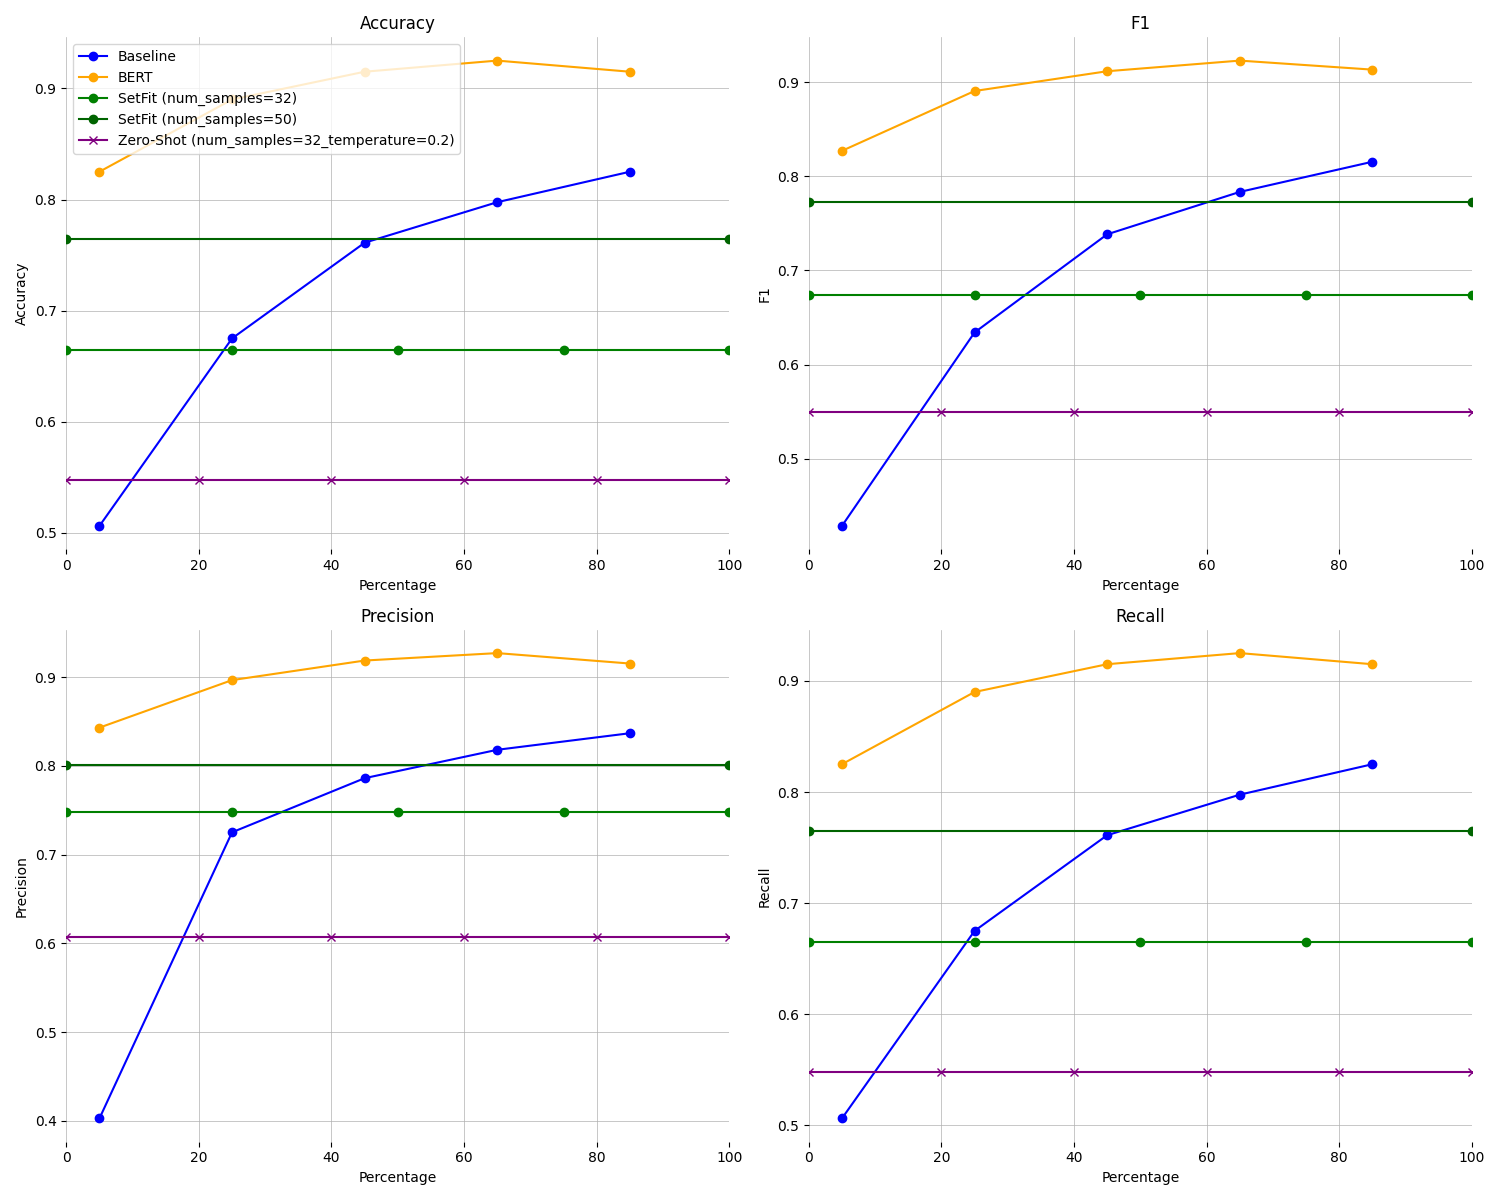
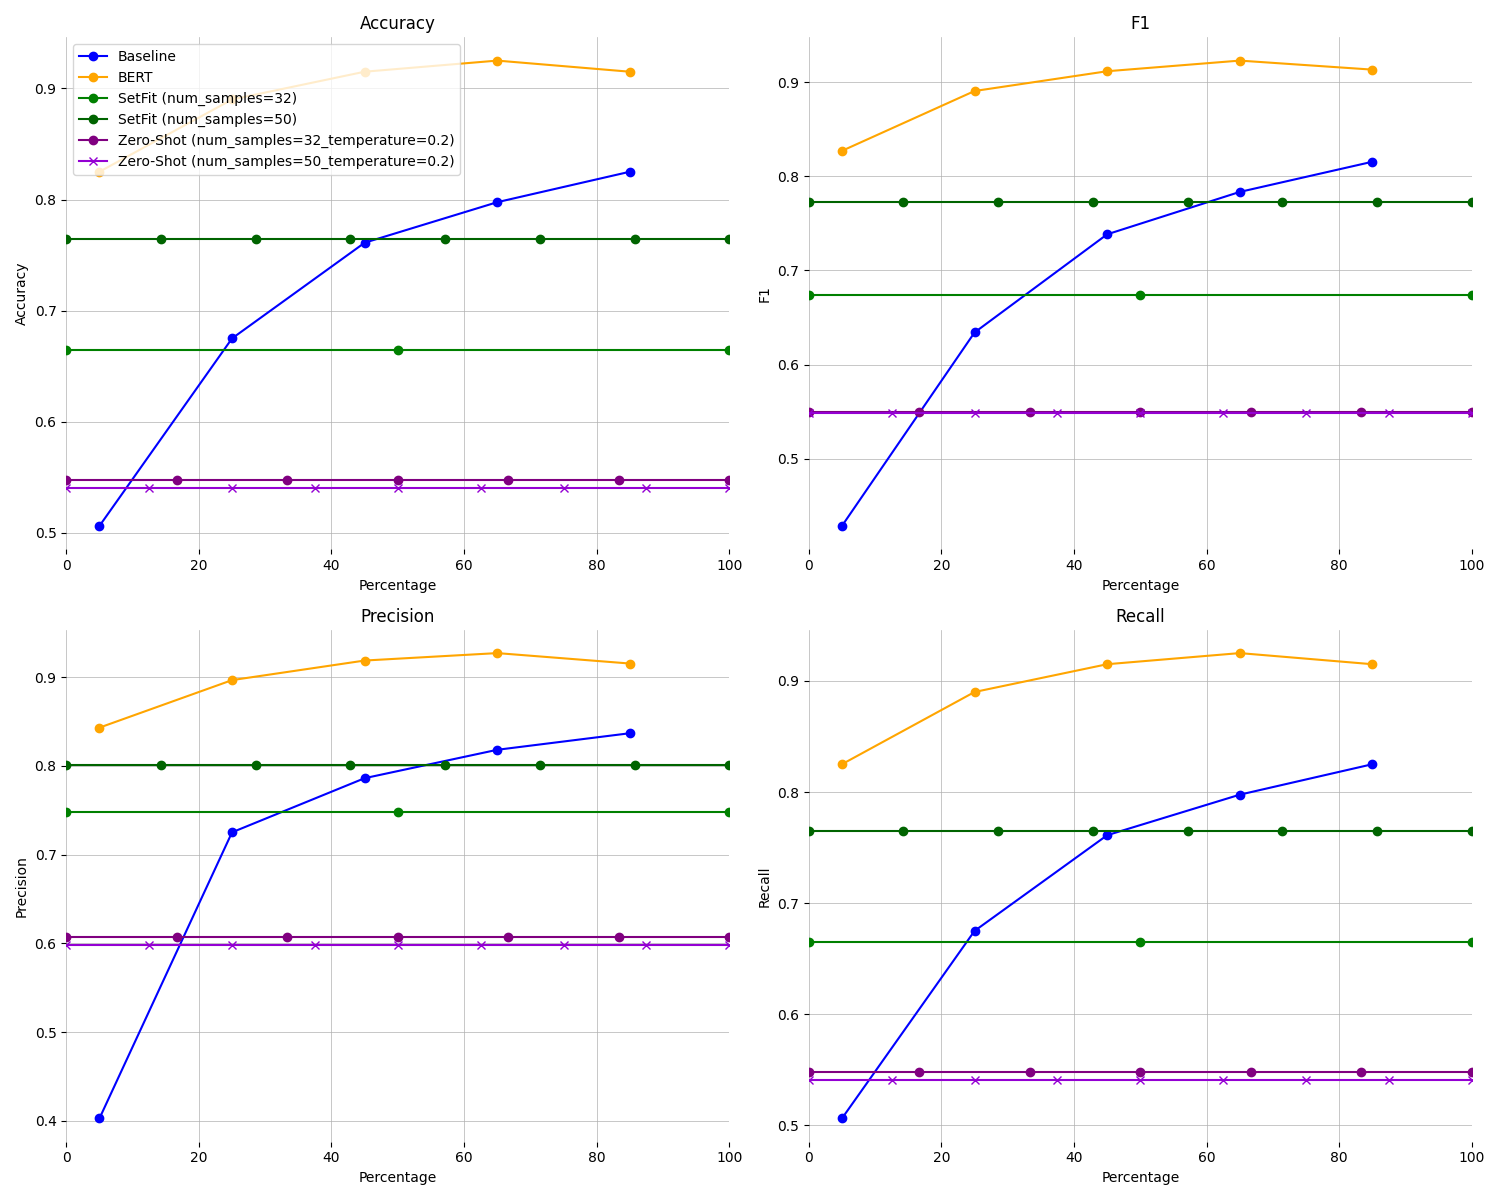
Finalising

diff --git a/homework/main.py b/homework/main.py
@@ -156,7 +156,7 @@ if __name__ == "__main__":
     fig_name = "metrics.png"
 
     baseline_results = tasks.baseline()
-    fig = Utils.plot_metrics_comparison_comparison(baseline_results, label = "Baseline", color='blue', legend=False)
+    fig = Utils.plot_metrics_comparison(baseline_results, label = "Baseline", color='blue', legend=False)
     fig.savefig(Utils.fig_path(fig_name), format="png")
 
 
@@ -194,7 +194,7 @@ if __name__ == "__main__":
     num_samples = 50
     zeroshot_results = tasks.zero_shot(num_samples, temperature)
 
-    fig = Utils.plot_metrics_comparison(zeroshot_results, fig=fig, label=f"Zero-Shot (num_samples={num_samples}_temperature={temperature})", color='darkpurple', legend=True)
+    fig = Utils.plot_metrics_comparison(zeroshot_results, fig=fig, label=f"Zero-Shot (num_samples={num_samples}_temperature={temperature})", color='darkviolet', legend=True)
     fig.savefig(Utils.fig_path(fig_name), format="png")
 
 
